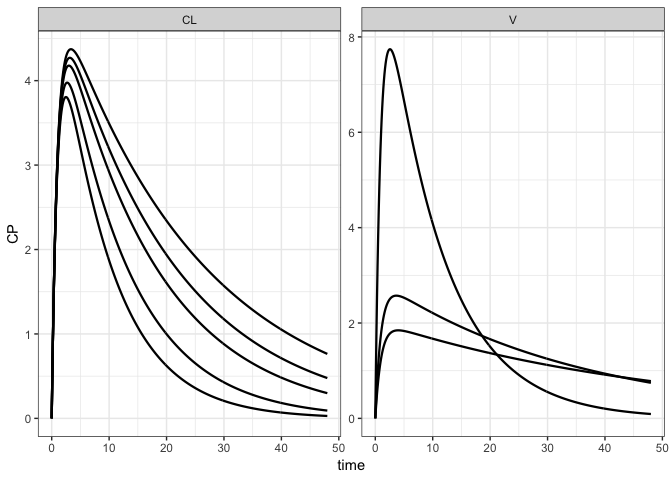
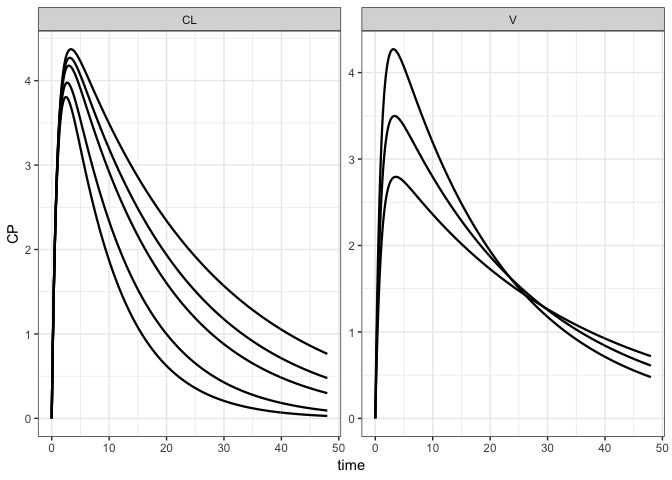
re-build

diff --git a/README.md b/README.md
@@ -53,7 +53,7 @@ mod %>%
   ev(amt = 100) %>% 
   parseq_manual(
     CL = c(0.8,1, 1.2,1.7,2.2), 
-    V = c(10,35,50)
+    V = c(20,25,32)
   ) %>% 
   sens_each() %>% 
   sens_plot(CP)
